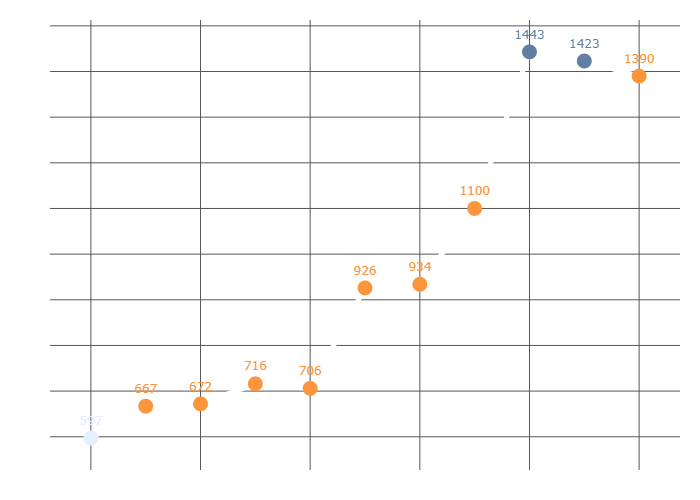
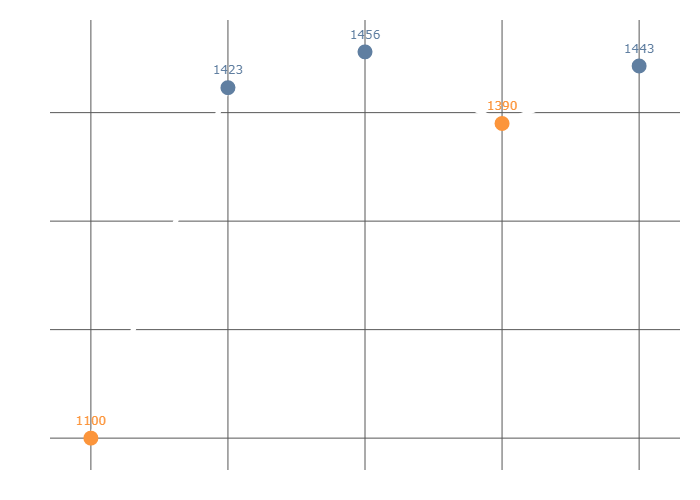
feat: generateMMRHistoryImage, generateStatImage

diff --git a/module/statImage.py b/module/statImage.py
@@ -6,9 +6,6 @@ import urllib.request
 import plotly.express as px
 from pandas import DataFrame
 
-# from variables import getSeason, getTierName
-# from database import *
-
 logger = logging.getLogger("ihahbot.main")
 
 def getRankCode(itemCode: int):
@@ -317,14 +314,15 @@ rankTierColors = {
 	"eternity": 	"rgb(160, 31, 74)"
 }
 
-def generateMMRHistoryImage(userId: int, x: dict, tier: str):
-	# 샨티 님의 RP 변동 이력
-	data : dict = x['result']['3']
+def generateMMRHistoryImage(userId: int, data: dict, tier: str):
 	keys = list(data); df = []; tierColors = []; tierColors = []
 	for x in range(len(data)):
-		df.append({ "date": "/".join([keys[x][i:i+2] for i in range(0, len(keys[x]), 2)])[3:], "rp": data[keys[x]]['end']})
-		tier = getTier(data[keys[x]]['end'])
-		tierColors.append(rankTierColors[tier])
+		if x < 5:
+			rev = len(data)-x-1
+			df.append({ "date": "/".join([keys[rev][i:i+2] for i in range(0, len(keys[rev]), 2)])[3:], "rp": data[keys[rev]]['end']})
+			tier = getTier(data[keys[rev]]['end'])
+			tierColors.append(rankTierColors[tier])
+			df.reverse(); tierColors.reverse()
 	fig = px.line(DataFrame.from_dict(df), x="date", y="rp", text="rp")
 	fig.update_traces(
 		textposition="top center",
@@ -344,7 +342,7 @@ def generateMMRHistoryImage(userId: int, x: dict, tier: str):
 		)
 	)
 
-	fig.update_xaxes(title=None, dtick=2)
+	fig.update_xaxes(title=None)
 	fig.update_yaxes(title=None, dtick=100)
 	fig.update_layout(
 		margin=dict(
@@ -371,14 +369,13 @@ def generateMMRHistoryImage(userId: int, x: dict, tier: str):
 			)
 		)
 	)
-	fig.write_image("Match/mmr-history/3015759.png")
+	fig.write_image(f"Match/mmr-history/{userId}.png")
 
-def generateStatImage(user: list, x: dict):
-	print(x)
+def generateStatImage(user: list, x: dict, history: dict):
 	image = Image.open("image/Background/Tier/_Background.png")
 	draw = ImageDraw.Draw(image)
 	
-	userId = user[0]; userName = user[1]; tier = getTierName(x['seasonQueueData']['mmr'])
+	userId = user[0]; userName = user[1]; tier = getTierName(x['seasonQueueData']['mmr'], x['seasonQueueData']['isDemigod'], x['seasonQueueData']['isEternity'])
 
 	draw.text((75, 25), f"{userName}", font=ImageFont.truetype('Freesentation-7Bold.ttf', size=40), fill="#FFFFFF")
 	draw.text((30, 75), f"{x['overall']['plays']}전 {x['overall']['wins']}승 ({round((x['overall']['wins']/x['overall']['plays'])*100, 1)}%)", font=ImageFont.truetype('Freesentation-7Bold.ttf', size=20), fill="#959595")
@@ -392,8 +389,9 @@ def generateStatImage(user: list, x: dict):
 	draw.text((125, 135), f"{getSeason(x['seasonQueueData']['seasonId'])}", font=ImageFont.truetype('Freesentation-7Bold.ttf', size=18), fill=(206, 206, 206))
 	draw.text((125, 160), f"{tier[0]}", font=ImageFont.truetype('Freesentation-7Bold.ttf', size=27), fill="#FFFFFF")
 	draw.text((123, 190), f"{x['seasonQueueData']['mmr']}", font=ImageFont.truetype('Inter-Bold.ttf', size=40), fill=rankTierColors[tier[2]])
-	draw.text((255+(-30*(5-len(f"{x['seasonQueueData']['mmr']}")))+(0 if len(f"{x['seasonQueueData']['mmr']}") >= 4 else 10), 200), "RP", font=ImageFont.truetype('Inter-Bold.ttf', size=30), fill="#FFFFFF")
-	
+	draw.text((255+(-30*(5-len(f"{x['seasonQueueData']['mmr']}")))+(5 if len(f"{x['seasonQueueData']['mmr']}") >= 4 else 10), 200), "RP", font=ImageFont.truetype('Inter-Bold.ttf', size=30), fill="#FFFFFF")
+	draw.text((412, 408), "GENERATED BY IHAHBOT", font=ImageFont.truetype('Inter-Bold.ttf', size=15), fill="#959595")
+
 	draw.text(( 45, 270), "평균 K·D·A", font=statusTitle, fill="#E0E0E0")
 	draw.text((165, 270), "승률", font=statusTitle, fill="#E0E0E0")
 	draw.text((230, 270), "반타작률", font=statusTitle, fill="#E0E0E0")
@@ -407,7 +405,7 @@ def generateStatImage(user: list, x: dict):
 	draw.text((230, 285), f"{round(x['season']['halfRate']*100, 1)}%", font=statusObject, fill="#FFFFFF")
 	draw.text(( 45, 355), f"{x['seasonQueueData']['totalPlays']}", font=statusObject, fill="#FFFFFF")
 	draw.text((135, 355), f"{x['seasonQueueData']['totalWins']}", font=statusObject, fill="#FFFFFF")
-	draw.text((230, 355), f"{x['season']['playTime']}", font=statusObject, fill="#FFFFFF")
+	draw.text((230, 355), f"{round(x['season']['playTime']/3600, 1)}시간", font=statusObject, fill="#FFFFFF")
 
 	foreground = Image.new("RGBA", (image.width, image.height), (0, 0, 0, 0))
 	tierSmallBackground = Image.open(f"image/Tier/Small/{tier[2].capitalize()}.png").convert("RGBA")
@@ -416,11 +414,11 @@ def generateStatImage(user: list, x: dict):
 
 	image = image.resize((image.width*3, image.height*3))
 	foreground = Image.new("RGBA", (image.width, image.height), (0, 0, 0, 0))
-	tierFullImage = Image.open(f"image/Tier/Full/{tier[2].capitalize()}.png").convert("RGBA")
-	foreground.paste(tierFullImage, (130, 425), tierFullImage)
+	tierFullImage = Image.open(f"image/Tier/Full/{tier[2].capitalize()}.png").resize((240,375)).convert("RGBA")
+	foreground.paste(tierFullImage, (130, 425 if x['seasonQueueData']['mmr'] < 1400 else 370), tierFullImage)
 	image = Image.alpha_composite(image, foreground)
 
-	# generateMMRHistoryImage(userId, {}, tier[2]) # TODO
+	generateMMRHistoryImage(userId, history, tier[2])
 	RPHistory = Image.open(f"Match/mmr-history/{userId}.png").resize((800, 600)).convert("RGBA")
 	foreground = Image.new("RGBA", (image.width, image.height), (0, 0, 0, 0))
 	foreground.paste(RPHistory, (930, 525), RPHistory)

diff --git a/Cogs/Setting.py b/Cogs/Setting.py
@@ -98,7 +98,7 @@ class Setting(commands.Cog):
 				await i.response.send_message(embed=embed, ephemeral=True)
 				return
 			else:
-				await i.response.send_message(embed=makeErrorEmbed("잘못된 값이에요."), ephemeral=True)
+				await i.response.send_message(embed=makeErrorEmbed("잘못된 값이에요. `true` 또는 `false` 로만 입력해야해요."), ephemeral=True)
 				return
 		elif key == "hideGameId":
 			if value == "true" or value == "false":
@@ -110,18 +110,18 @@ class Setting(commands.Cog):
 				await i.response.send_message(embed=embed, ephemeral=True)
 				return
 			else:
-				await i.response.send_message(embed=makeErrorEmbed("잘못된 값이에요."), ephemeral=True)
+				await i.response.send_message(embed=makeErrorEmbed("잘못된 값이에요. `true` 또는 `false` 로만 입력해야해요."), ephemeral=True)
 				return
 		elif key == "gameNickname":
-			# await i.response.send_message(embed=makeErrorEmbed("아직 준비 중인 기능이에요."), ephemeral=True)
-			# return
-			userId = await getUserId(value)
-			level = await getUserLevel(userId)
-			embed = disnake.Embed(
-				title="👤 계정 확인",
-				description=f"`{i.guild.name}` 서버의 `내 이터널 리턴 닉네임` 설정을 **{value}** (Lv.{level}) 로 변경해요.\n정말 내 이터널 리턴 닉네임이 맞나요? **__다를 경우 이하봇 이용이 중지될 수 있어요.__**"
-			)
-			await i.response.send_message(embed=embed, ephemeral=True)
+			await i.response.send_message(embed=makeErrorEmbed("아직 준비 중인 기능이에요."), ephemeral=True)
+			return
+			# userId = await getUserId(value)
+			# level = await getUserLevel(userId)
+			# embed = disnake.Embed(
+			# 	title="👤 계정 확인",
+			# 	description=f"`{i.guild.name}` 서버의 `내 이터널 리턴 닉네임` 설정을 **{value}** (Lv.{level}) 로 변경해요.\n정말 내 이터널 리턴 닉네임이 맞나요? **__다를 경우 이하봇 이용이 중지될 수 있어요.__**"
+			# )
+			# await i.response.send_message(embed=embed, ephemeral=True)
 
 def setup(bot: commands.Bot):
 	bot.add_cog(Setting(bot))

diff --git a/Cogs/Stat.py b/Cogs/Stat.py
@@ -2,7 +2,7 @@ import disnake, aiohttp
 from disnake.ext import commands
 from config import AYAGG_API_URL, AYAGG_HEADER
 from module.embed import makeErrorEmbed
-from module.player import getRecord, getRecord_Match, getUserId, getUserStatistics, searchUser
+from module.player import getRecord, getRecord_Match, getUserId, getUserMMRHistory, getUserStatistics, searchUser
 from module.setting import getMemberSetting
 from module.statImage import generateRecordImage, generateStatImage
 from module.games import getRecordOptions
@@ -82,7 +82,7 @@ class Stat(commands.Cog):
 			else:
 				nick = userNames['result'][0]['name']
 				userId = userNames['result'][0]['id']
-		generateStatImage([userId, nick], await getUserStatistics(userId, 27))
+		generateStatImage([userId, nick], await getUserStatistics(userId, 27), await getUserMMRHistory(userId))
 		record = await getRecord(userId)
 		await i.edit_original_message(embed=None, file=disnake.File(fp=f"Match/Stat/{userId}.png", filename=f"Stat-{userId}.png"), view=RecordListView(i.user.id, await getRecordOptions(record['result'], i), userId, record['page']))
 
@@ -103,13 +103,9 @@ class userSearch(disnake.ui.Select):
 		if self._userId == i.user.id:
 			nick = self.values[0]
 			userId = await getUserId(nick)
-			embed = disnake.Embed(
-				title=f"{nick}님의 전적",
-				description="원하는 기록을 선택하고 전적을 확인해보세요!"
-			)
-			embed.set_footer(text="Data from aya.gg")
+			generateStatImage([userId, nick], await getUserStatistics(userId, 27), await getUserMMRHistory(userId))
 			record = await getRecord(userId)
-			await i.response.edit_message(embed=embed, view=RecordListView(i.user.id, await getRecordOptions(record['result'], i), userId, record['page']))
+			await i.response.edit_message(embed=None, file=disnake.File(fp=f"Match/Stat/{userId}.png", filename=f"Stat-{userId}.png"), view=RecordListView(i.user.id, await getRecordOptions(record['result'], i), userId, record['page']))
 		else:
 			await i.response.send_message(embed=makeErrorEmbed("선택권은 메시지 주인에게만 있어요!"), ephemeral=True)
 

diff --git a/main.py b/main.py
@@ -1,4 +1,4 @@
-import disnake, os, asyncio, platform, logging, coloredlogs
+import disnake, os, platform, logging, coloredlogs
 from disnake.ext import commands
 from config import *
 
@@ -104,19 +104,6 @@ async def load_slashCommand(i: disnake.CommandInteraction, module: str):
 		await i.response.send_message(f"Module loaded: {module}")
 	except Exception as e:
 		await i.response.send_message(f"Module load failed: {module}\n```{e}```")
-
-async def change_presence(shard_id):
-	if not "-working" in version:
-		shard = bot.get_shard(shard_id)
-		while not shard.is_closed():
-			await bot.change_presence(status = disnake.Status.online, activity = disnake.Game(f"{version.split('-')[0]} / Shard #{shard_id}"))
-			await asyncio.sleep(15)
-			await bot.change_presence(status = disnake.Status.online, activity = disnake.Activity(type=disnake.ActivityType.listening, name="/help"))
-			await asyncio.sleep(15)
-			await bot.change_presence(status = disnake.Status.online, activity = disnake.Game(f"{len(bot.guilds)} Guilds"))
-			await asyncio.sleep(15)
-	else:
-		await bot.change_presence(status = disnake.Status.online, activity = disnake.Game(f"IHAHBOT is working!"))
 
 if f"{platform.system()}" != "Windows": bot.run(TOKEN_PRODUCTION)
 else: bot.run(TOKEN_TESTBUILD)

diff --git a/module/player.py b/module/player.py
@@ -95,3 +95,9 @@ async def getUserStatistics(userId: int, season: int=None):
 			for x in r['result']:
 				if x['seasonId'] == season: result['seasonQueueData'] = x
 		return result
+
+async def getUserMMRHistory(userId: int, queue: int=3):
+	async with aiohttp.ClientSession(headers=AYAGG_HEADER) as session:
+		async with session.get(AYAGG_API_URL + f"/queues/by-player/{userId}/history") as res:
+			r = await res.json()
+			return r['result'][f'{queue}']
